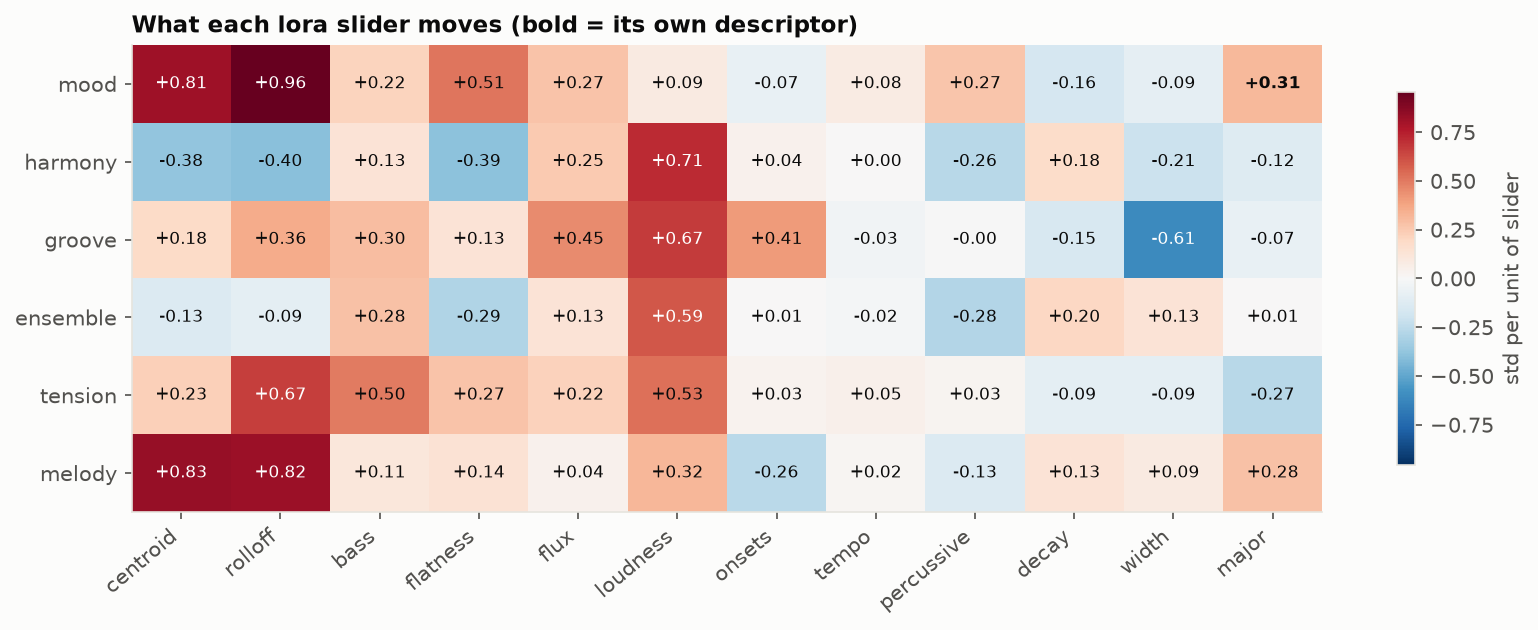
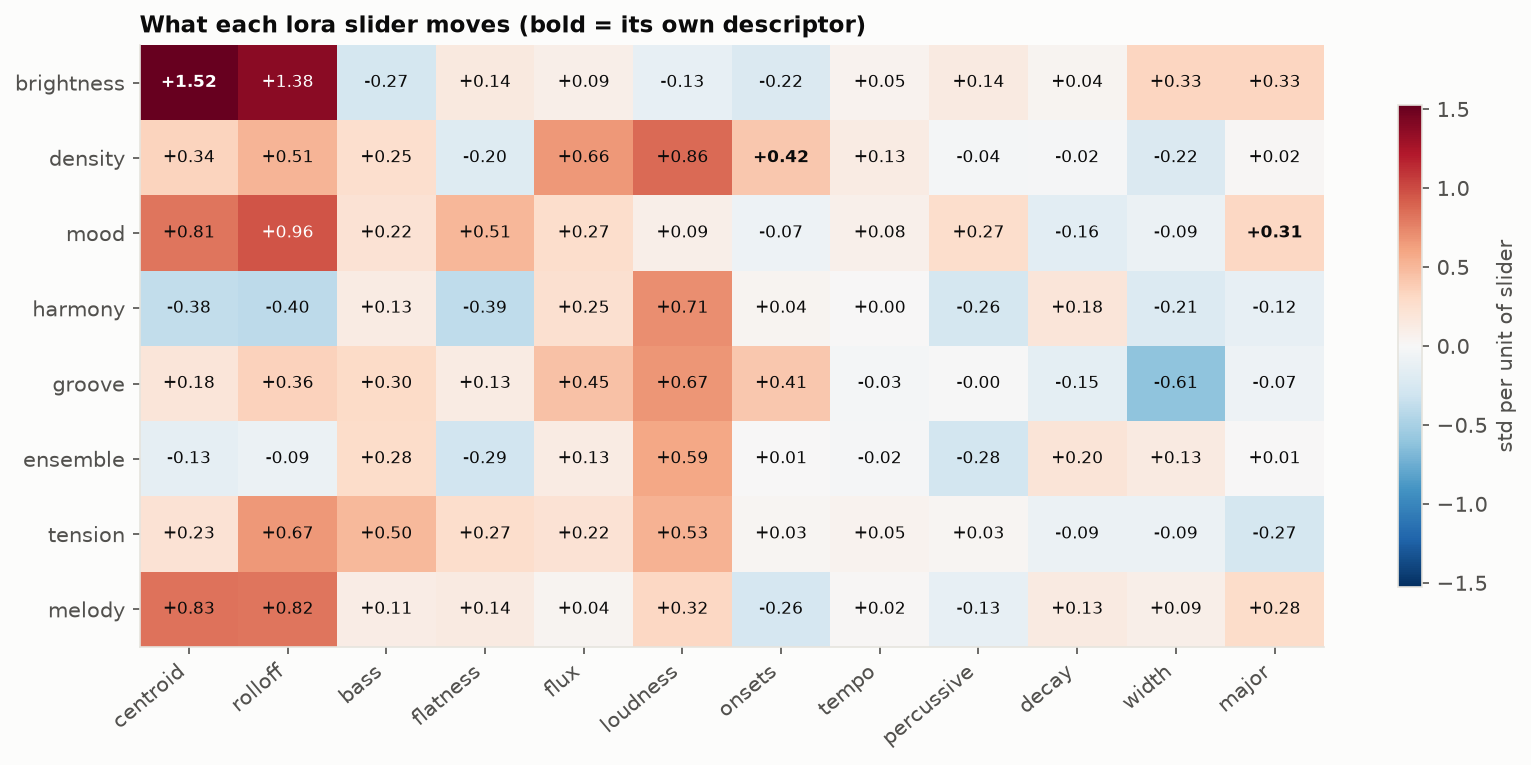
Results: all eight ACE-Step text sliders, with the leakage matrix
Brightness follows its slider with rho 0.97 and density with 0.78 (the same
prompt pair fails on Stable Audio Open). The leakage matrix shows mood and
melody also brighten the clip and four sliders raise loudness.

diff --git a/paper/tables/ace.tex b/paper/tables/ace.tex
@@ -3,6 +3,8 @@
 \toprule
 Slider & Descriptor & $\rho$ & Ordered & Span & Moved & Kept & CE$_0$ & CE$_\text{ends}$ \\
 \midrule
+brightness & centroid\_oct & 0.97 & 1.00 & -1.0 to +2.0 & 4.41 & 0.74 & 6.95 & 6.04 \\
+density & onset\_rate & 0.78 & 0.92 & -0.5 to +2.0 & 1.25 & 0.84 & 6.95 & 6.09 \\
 mood & majorness & 0.39 & 0.75 & -1.0 to +2.0 & 0.87 & 0.79 & 6.95 & 6.65 \\
 harmony & harmonic\_change & 0.41 & 0.76 & -1.5 to +2.0 & 0.84 & 0.83 & 6.95 & 6.64 \\
 groove & -- & -- & -- & -1.5 to +2.0 & -- & 0.79 & 6.95 & 6.88 \\

diff --git a/README.md b/README.md
@@ -14,7 +14,7 @@
 
 ## Headline
 
-Six musical sliders on ACE-Step 1.5 XL turbo, each trained from one prompt pair in about 20 minutes. 24 held-out prompts, 3 seeds, 9 slider positions, 648 clips per slider.
+Eight sliders on ACE-Step 1.5 XL turbo, each trained from one prompt pair in about 20 minutes. 24 held-out prompts, 3 seeds, 9 slider positions, 648 clips per slider.
 
 | Slider | What rises toward + (CLAP tags) | What falls | Measured descriptor follows? (ρ, ends ordered) | Usable span | Piece kept | Enjoyment at the ends |
 |---|---|---|---|---|---:|---:|
@@ -24,6 +24,8 @@ Six musical sliders on ACE-Step 1.5 XL turbo, each trained from one prompt pair 
 | [**harmony**](https://takakhoo.github.io/audio-diffusion-control/?model=ace&method=lora&slider=harmony&prompt=0&x=2) (plain to rich) | minor key, melancholic, major key | country, vocals, violin | harmonic change rate: 0.41, 76% | -1.5 to +2 | 0.83 | 6.64 |
 | [**melody**](https://takakhoo.github.io/audio-diffusion-control/?model=ace&method=lora&slider=melody&prompt=0&x=2) (texture to tune) | romantic, happy, blues | lo-fi, mysterious, calm | key clarity: 0.48, 78% | -1 to +2 | 0.80 | 6.47 |
 | [**tension**](https://takakhoo.github.io/audio-diffusion-control/?model=ace&method=lora&slider=tension&prompt=0&x=1) (relaxed to tense) | metal, rock, distorted | melancholic, uplifting, sad | no descriptor assigned | -1.5 to +1 | 0.83 | 5.64 |
+| [**brightness**](https://takakhoo.github.io/audio-diffusion-control/?model=ace&method=lora&slider=brightness&prompt=0&x=2) (dark to bright) | happy, repetitive, romantic | dark-toned, lo-fi, quiet | spectral centroid: 0.97, 100% | -1 to +2 | 0.74 | 6.04 |
+| [**density**](https://takakhoo.github.io/audio-diffusion-control/?model=ace&method=lora&slider=density&prompt=0&x=2) (sparse to dense) | latin, repetitive, romantic | dark-toned, quiet, lo-fi | onset rate: 0.78, 92% | -0.5 to +2 | 0.84 | 6.09 |
 
 Each slider name opens the live demo on that slider. For scale: unsteered clips score 6.95 on Audiobox Aesthetics content enjoyment, and 2,000 real recordings from FMA average 6.1. "Usable span" is how far the slider goes before mean enjoyment falls more than 0.5 below the unsteered clips. "Piece kept" is CLAP similarity to the unsteered clip at the ends of that span. Full tables: [`results/ace/`](results/ace/).
 
@@ -62,7 +64,7 @@ A fourth readout says what changed in words: 80 instrument, genre, mood, and cha
 
 ![Descriptor against slider position, ACE-Step](results/ace/response.png)
 
-Each curve is the mean change from the unsteered clip over 72 trajectories, in units of the descriptor's spread across unsteered clips. Harmony moves the harmonic change rate by about half a standard deviation in each direction, and ensemble, melody, and mood all rise with their slider.
+Each curve is the mean change from the unsteered clip over 72 trajectories, in units of the descriptor's spread across unsteered clips. Brightness moves the spectral centroid by more than four standard deviations with every one of its 72 trajectories ordered correctly. Harmony moves the harmonic change rate by about half a standard deviation in each direction, and density, ensemble, melody, and mood all rise with their slider.
 
 ### 3. Pushing too far stops sounding like music, and that is measurable
 
@@ -72,7 +74,7 @@ First the yardstick. Audiobox Aesthetics scores 2,000 real recordings from FMA a
 
 ![Content enjoyment against slider position, ACE-Step](results/ace/quality.png)
 
-The dashed line is the mean of real recordings. Five of the six sliders stay above it across the whole range. Tension collapses past +1, which is why its usable span ends there. The negative ends (sadder, sparser, plainer) cost a little enjoyment; the positive ends cost almost none.
+The dashed line is the mean of real recordings. Seven of the eight sliders stay at or above it across their usable span. Tension collapses past +1, which is why its usable span ends there. The negative ends (sadder, sparser, plainer) cost a little enjoyment; the positive ends cost almost none.
 
 ### 4. Leaving the first steps alone keeps the piece
 
@@ -93,11 +95,19 @@ Starting at step 21 keeps most of the effect and cuts the loss in enjoyment from
 
 On Stable Audio Open, the text sliders for "density" and "percussion" move the output along their CLAP text direction, as the published evaluations would report. The measured onset rate and percussive energy share do not follow: rank correlation at or below 0.37 and a range near zero at every gate setting. A slider that only passes the embedding test has not been shown to do its job, and this is the reason sliders can also be trained from the measurement itself.
 
-### 6. A slider trained with no text
+On ACE-Step the density slider does pass: onset rate follows it with ρ = 0.78. Whether a prompt pair yields a working slider depends on the backbone, which is one more reason to measure.
+
+### 6. What else moves
+
+![Slope of every descriptor for every ACE-Step slider](results/ace/leakage_lora.png)
+
+Each row is a slider and each cell is how far a descriptor moves per unit of slider, in standard deviations of unsteered clips; bold marks the slider's own descriptor. Sliders are not clean. Mood and melody both brighten the clip (centroid +0.8 per unit), and density, groove, harmony, and ensemble all raise loudness (+0.6 to +0.9). A slider named for one thing moves several, and the table says which.
+
+### 7. A slider trained with no text
 
 Sorting the model's own clips by measured spectral centroid and training between the two ends gives a brightness slider that moves the mean centroid from 408 Hz at -2 to 1,488 Hz at +1 (899 Hz unsteered) on 8 held-out prompts in a pilot run, with stereo width, loudness, and low-end energy nearly unchanged. The text slider for brightness drags all three along. The same trainer, sorting by aesthetics score, gives a quality slider. Full evaluation of these is in the running queue.
 
-### 7. Axes nobody named
+### 8. Axes nobody named
 
 For each of five broad concepts, 1,024 clips were generated on ACE-Step and their CLAP embeddings decomposed with PCA. The leading components carry 16 to 25% of the variance within a concept, and the tags they point toward and away from read as musical contrasts:
 
@@ -114,7 +124,7 @@ For each of five broad concepts, 1,024 clips were generated on ACE-Step and thei
 
 All 30 are in [`results/discovery/ace/pca.md`](results/discovery/ace/pca.md) with their correlations to every descriptor. Training these directions into sliders with the set trainer is in the running queue.
 
-### 8. How well a slider learns its target
+### 9. How well a slider learns its target
 
 ![Share of the guidance target not yet reproduced, by training iteration](results/figures/training_curves.png)
 

diff --git a/results/ace/tags.md b/results/ace/tags.md
@@ -1,6 +1,8 @@
 | Slider | Method | Rises toward + | Falls toward + |
 |---|---|---|---|
 | none | base | dark-toned (+0.000), bright (+0.000), classical (+0.000), rock (+0.000) | piano (+0.000), complex (+0.000), simple (+0.000), dense (+0.000) |
+| brightness | LoRA slider | happy (+0.267), repetitive (+0.215), romantic (+0.196), complex (+0.189) | dark-toned (-0.179), lo-fi (-0.178), quiet (-0.158), distorted (-0.102) |
+| density | LoRA slider | latin (+0.227), repetitive (+0.223), romantic (+0.216), happy (+0.212) | dark-toned (-0.088), quiet (-0.083), lo-fi (-0.069), reverberant (-0.057) |
 | ensemble | LoRA slider | orchestral film score (+0.190), epic (+0.190), choir (+0.186), romantic (+0.124) | straight (-0.089), funk (-0.075), hip hop (-0.054), pop (-0.046) |
 | groove | LoRA slider | latin (+0.275), funk (+0.272), reggae (+0.241), repetitive (+0.240) | choir (-0.142), strings (-0.104), cello (-0.102), flute (-0.095) |
 | harmony | LoRA slider | minor key (+0.126), melancholic (+0.103), major key (+0.093), complex (+0.089) | country (-0.049), vocals (-0.043), violin (-0.036), folk (-0.032) |

diff --git a/results/ace/summary.md b/results/ace/summary.md
@@ -1,5 +1,7 @@
 | Slider | Method | Monotonicity ρ | Ends ordered | Usable from | to | Descriptor moved (std) | CLAP moved | Piece kept | Quality at 0 | Quality at ends |
 |---|---|---:|---:|---:|---:|---:|---:|---:|---:|---:|
+| brightness | LoRA slider | 0.97 | 1.00 | -1.0 | 2.0 | 4.41 | 0.300 | 0.74 | 6.95 | 6.04 |
+| density | LoRA slider | 0.78 | 0.92 | -0.5 | 2.0 | 1.25 | 0.168 | 0.84 | 6.95 | 6.09 |
 | mood | LoRA slider | 0.39 | 0.75 | -1.0 | 2.0 | 0.87 | 0.230 | 0.79 | 6.95 | 6.65 |
 | harmony | LoRA slider | 0.41 | 0.76 | -1.5 | 2.0 | 0.84 | 0.124 | 0.83 | 6.95 | 6.64 |
 | groove | LoRA slider |  |  | -1.5 | 2.0 |  | 0.090 | 0.79 | 6.95 | 6.88 |
